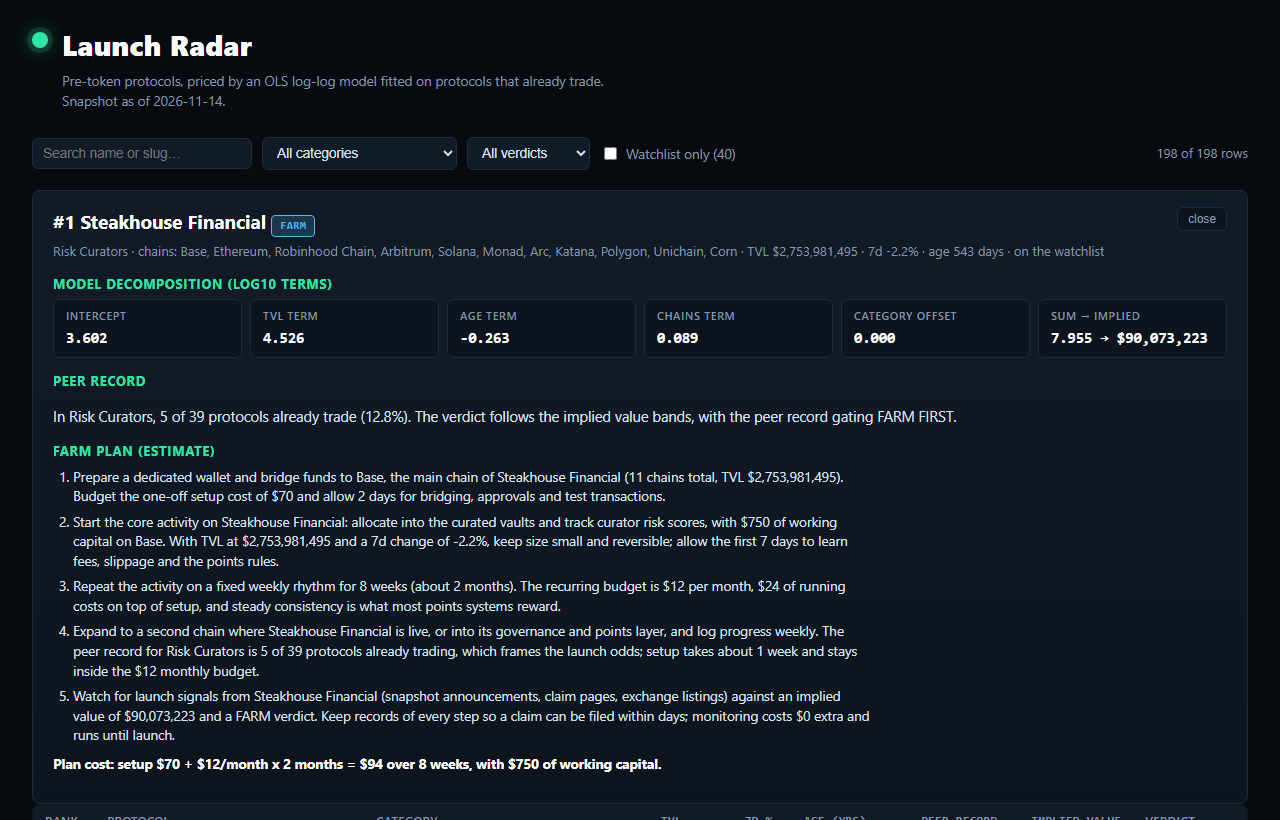
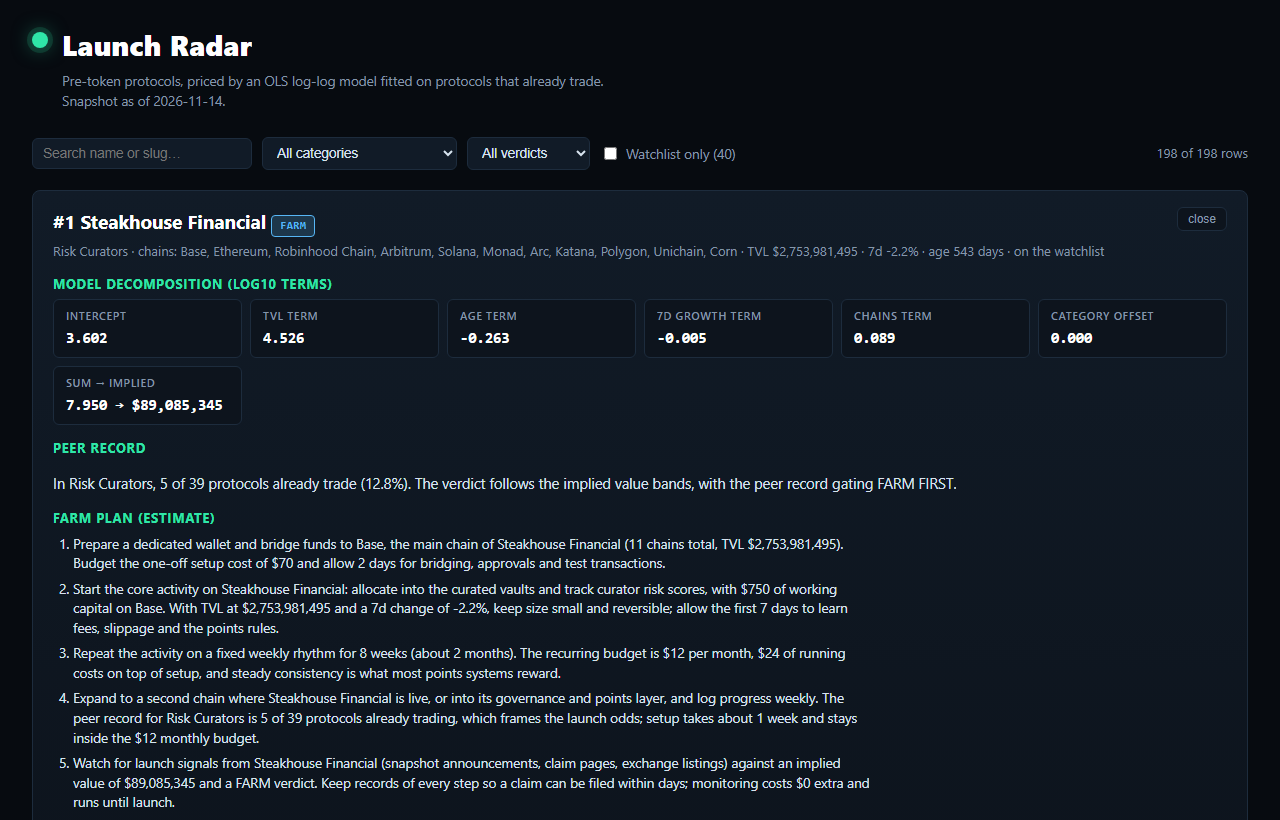
feat: incorporate bounded 7-day TVL growth factor in log-log valuation model and dashboard

diff --git a/lib/model.ts b/lib/model.ts
@@ -377,7 +377,7 @@ export interface BoardRow {
   ageDays: number | null;
   watchlist: boolean;
   peer: PeerRec;
-  terms: { intercept: number; tvlTerm: number; ageTerm: number; chainsTerm: number; catOffset: number };
+  terms: { intercept: number; tvlTerm: number; ageTerm: number; chainsTerm: number; growthTerm: number; catOffset: number };
   implied_value_usd: number;
   verdict: string;
   costs: Costs;
@@ -420,11 +420,22 @@ export function buildBoard(snap: Snapshot): Board {
   for (const p of snap.protocols) {
     if (!isEligible(p)) continue;
     const peer = peerFor(p.category, table);
-    const implied = Math.max(1, Math.round(predict(p, model, ctx)));
-    const verdict = verdictFor(implied, peer.share);
-    const costs = costsFor(p);
     const age = ageDays(p, snap.as_of);
     const f = feats(p, ctx, false);
+    const g = clip(p.change_7d === null ? ctx.medChg : p.change_7d, -60, 120);
+    const growthMult = 1 + (g / 100) * 0.5;
+    const growthTerm = Math.log10(growthMult);
+    const catOffset = model.offsets[p.category] ?? 0;
+    const logImplied =
+      model.weights[0] +
+      model.weights[1] * f[1] +
+      model.weights[2] * f[2] +
+      model.weights[3] * f[3] +
+      growthTerm +
+      catOffset;
+    const implied = Math.max(1, Math.round(Math.pow(10, logImplied)));
+    const verdict = verdictFor(implied, peer.share);
+    const costs = costsFor(p);
     rows.push({
       slug: p.slug,
       name: p.name,
@@ -441,7 +452,8 @@ export function buildBoard(snap: Snapshot): Board {
         tvlTerm: model.weights[1] * f[1],
         ageTerm: model.weights[2] * f[2],
         chainsTerm: model.weights[3] * f[3],
-        catOffset: model.offsets[p.category] ?? 0,
+        growthTerm,
+        catOffset,
       },
       implied_value_usd: implied,
       verdict,

diff --git a/dashboard/app.js b/dashboard/app.js
@@ -141,7 +141,7 @@
     var panel = $('detail');
     if (!r) { panel.className = 'detail hidden'; panel.innerHTML = ''; return; }
     var t = r.terms;
-    var sum = t.intercept + t.tvlTerm + t.ageTerm + t.chainsTerm + t.catOffset;
+    var sum = t.intercept + t.tvlTerm + t.ageTerm + t.chainsTerm + (t.growthTerm || 0) + t.catOffset;
     var months = Math.ceil(r.costs.weeks / 4);
     var stepsHtml = r.farm_steps.map(function (s) { return '<li>' + esc(s) + '</li>'; }).join('');
     panel.innerHTML =
@@ -156,6 +156,7 @@
       '<div class="term"><div class="t-label">Intercept</div><div class="t-val">' + t.intercept.toFixed(3) + '</div></div>' +
       '<div class="term"><div class="t-label">TVL term</div><div class="t-val">' + t.tvlTerm.toFixed(3) + '</div></div>' +
       '<div class="term"><div class="t-label">Age term</div><div class="t-val">' + t.ageTerm.toFixed(3) + '</div></div>' +
+      '<div class="term"><div class="t-label">7d Growth term</div><div class="t-val">' + (t.growthTerm >= 0 ? '+' : '') + t.growthTerm.toFixed(3) + '</div></div>' +
       '<div class="term"><div class="t-label">Chains term</div><div class="t-val">' + t.chainsTerm.toFixed(3) + '</div></div>' +
       '<div class="term"><div class="t-label">Category offset</div><div class="t-val">' + t.catOffset.toFixed(3) + '</div></div>' +
       '<div class="term"><div class="t-label">Sum → implied</div><div class="t-val">' + sum.toFixed(3) + ' → ' + fmtUsd(r.implied_value_usd) + '</div></div>' +
